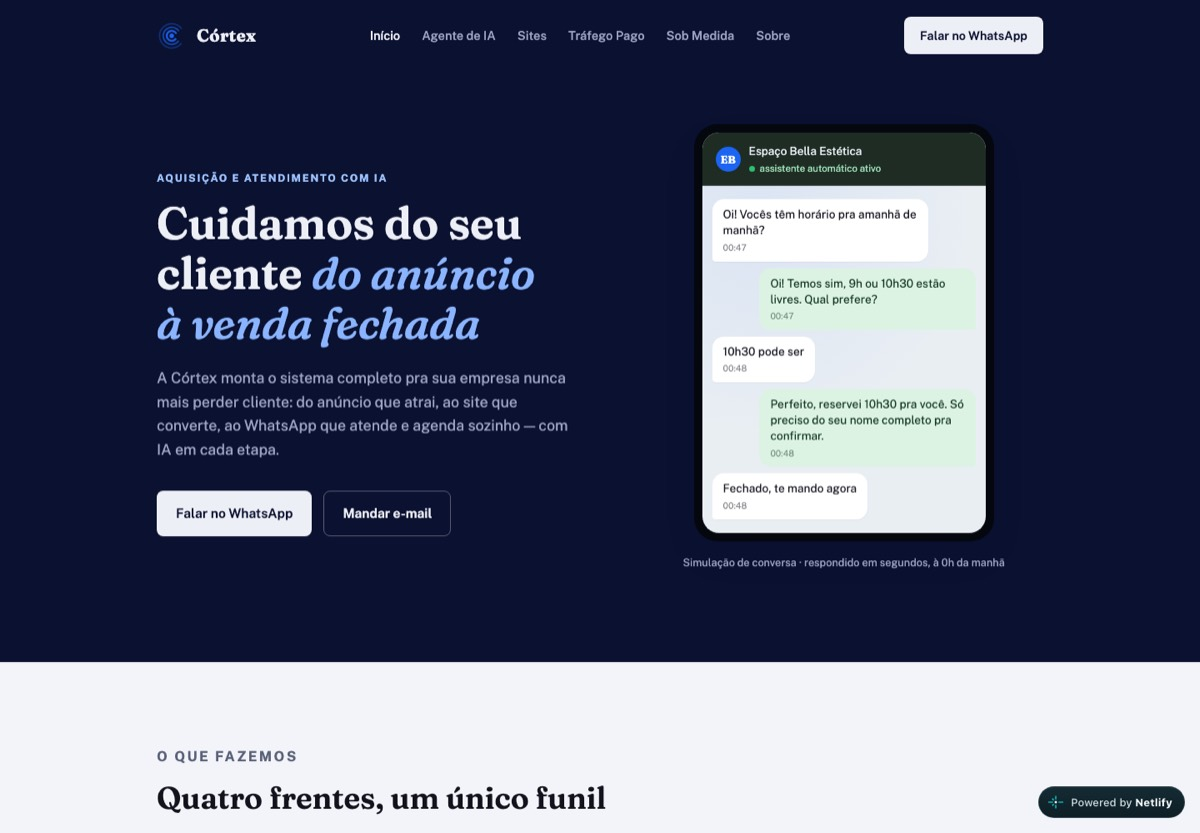
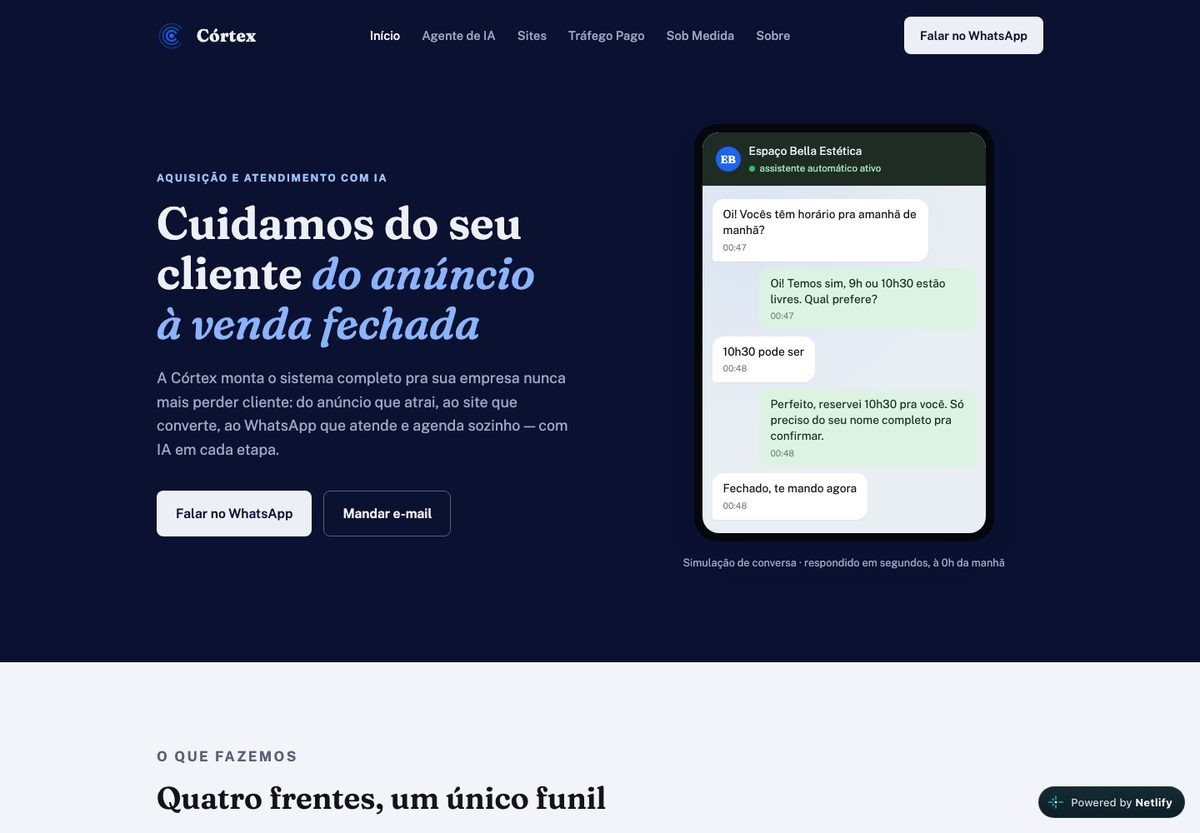
Atualiza as capturas e corrige o projeto Gelada
O repositório geladapocket saiu do ar e o site agora vive em
geladaclub.com, com outra proposta: virou loja de bebidas com
compra online, não é mais o catálogo de adega. Nome, categoria,
endereço e descrição da imagem foram acertados.

Capturas dos três projetos refeitas na mesma data.

diff --git a/index.html b/index.html
@@ -1126,18 +1126,18 @@ main,.rodape,.navbar,.trilho,.menu{ position:relative; z-index:2; }
       <div class="caso__grid">
         <div class="caso__txt">
           <span class="caso__idx">Projeto 03</span>
-          <h3 class="caso__nome rv">Gelada Pocket</h3>
-          <span class="caso__cat rv" style="--d:.08s">Adega / Cardápio digital</span>
-          <a class="lk lk--laranja rv" style="--d:.16s" href="https://nextstudio-site.github.io/geladapocket/" target="_blank" rel="noopener noreferrer">Ver projeto <i>→</i></a>
+          <h3 class="caso__nome rv">Gelada Club</h3>
+          <span class="caso__cat rv" style="--d:.08s">Bebidas / Loja online</span>
+          <a class="lk lk--laranja rv" style="--d:.16s" href="https://geladaclub.com/" target="_blank" rel="noopener noreferrer">Ver projeto <i>→</i></a>
         </div>
-        <a class="caso__media" href="https://nextstudio-site.github.io/geladapocket/" target="_blank" rel="noopener noreferrer" aria-label="Abrir o site Gelada Pocket Club em nova aba">
+        <a class="caso__media" href="https://geladaclub.com/" target="_blank" rel="noopener noreferrer" aria-label="Abrir o site Gelada Club em nova aba">
           <span class="caso__quadro">
-            <img src="assets/gelada-pocket.jpg" alt="Página inicial do site do Gelada Pocket Club, com o título “Uma adega que virou cozinha” e a foto de um drink." width="1200" height="833" loading="lazy" decoding="async" data-par-img>
+            <img src="assets/gelada-pocket.jpg" alt="Página inicial da loja Gelada Club, com o título “Sua bebida favorita, na sua casa” e garrafas geladas." width="1200" height="833" loading="lazy" decoding="async" data-par-img>
             <span class="caso__veu"></span>
           </span>
           <span class="caso__pe">
-            <span class="caso__url">geladapocket</span>
-            <span class="mono">Adega e cozinha · Tatuapé</span>
+            <span class="caso__url">geladaclub.com</span>
+            <span class="mono">Bebidas · loja online</span>
           </span>
         </a>
       </div>
@@ -1459,7 +1459,7 @@ var PLANOS = [
     resumo:"Várias páginas, com menu em cima.",
     explica:"Para quando uma página só não dá conta. O site ganha um menu e cada assunto vira uma aba separada: serviços, cardápio, sobre, contato. A pessoa clica e vai direto no que quer.",
     recursos:["Várias páginas com menu","Escrito do zero, sem template","Funciona bem no celular"],
-    exemplo:{ texto:"Ver um site assim", url:"https://nextstudio-site.github.io/geladapocket/" }
+    exemplo:{ texto:"Ver um site assim", url:"https://geladaclub.com/" }
   },
   {
     nome:"Premium", preco:"R$ 978", msg:"Oi! Vim pelo site da Next Studio. Quero o plano Premium (R$ 978).", tag:"", destaque:false,
